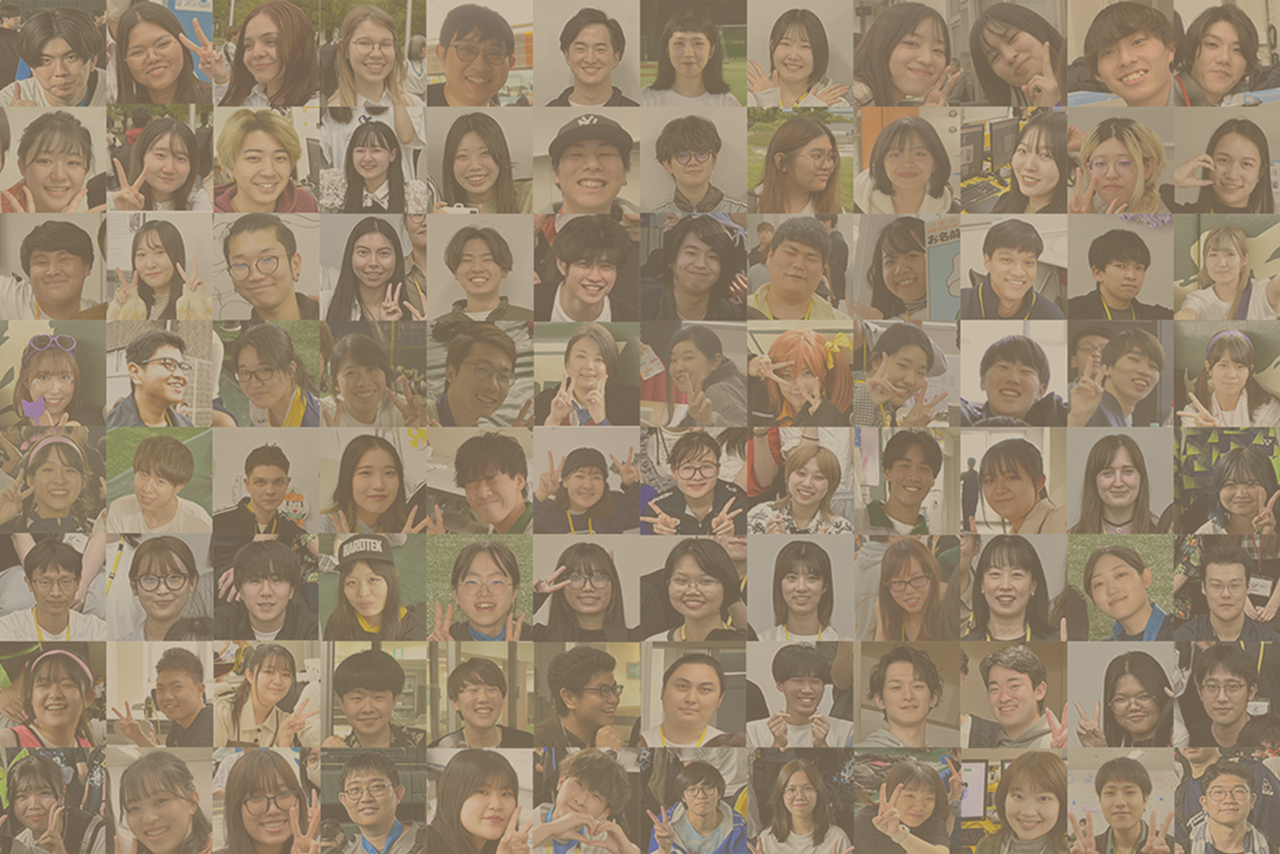
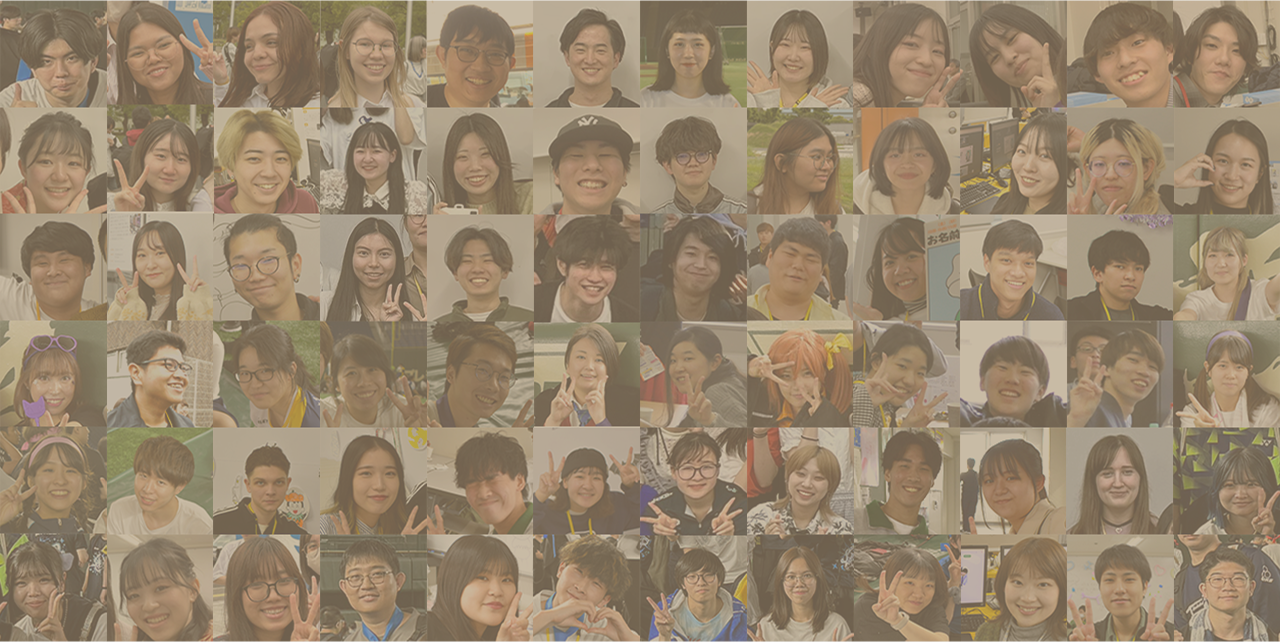
KVタイトル位置調整とSNSボタンホバーエフェクト追加

diff --git a/css/style.css b/css/style.css
@@ -142,14 +142,14 @@ header {
   background-position: center;
   background-repeat: no-repeat;
   width: 100%;
-  /* height: 119vh; */
+  height: 96vh;
   display: flex;
   align-items: center;
   justify-content: center;
   position: relative;
   min-height: 30px;
   margin-top: 72px;
-  aspect-ratio: 1280/854;
+  aspect-ratio: 1920/1080;
 }
 
 .kv-content {
@@ -163,13 +163,15 @@ header {
     "Hiragino Maru Gothic ProN", "Arial Rounded MT Bold", sans-serif;
   font-weight: 700; /* 太字指定 */
   color: #fff;
-  line-height: 1.2;
-  margin: 0;
+  line-height: 1.1;
   text-shadow: 6px 6px 15px rgba(0, 0, 0, 1);
+  position: relative;
+  /* top: -95px; */
+  transform: translateY(-15%);
 }
 
 .kv-title-number {
-  font-size: 96px;
+  font-size: 82px;
   display: block;
 
   font-weight: 400;
@@ -179,14 +181,14 @@ header {
 }
 
 .kv-title-main {
-  font-size: 250px;
+  font-size: 212px;
   display: block;
 
   font-weight: 400;
 }
 
 .kv-title-sub {
-  font-size: 64px;
+  font-size: 52px;
   display: block;
 
   font-weight: 400;
@@ -535,11 +537,12 @@ strong {
   max-width: 1250px;
   margin: 0 auto;
   padding: 50px 100px;
-  margin-top: 50px;
+  margin-top: 100px;
 }
 .recomend_text {
   color: #b15237;
   text-align: center;
+  font-size: 20px;
 }
 .button_container_diagnosis {
   display: flex;
@@ -928,6 +931,27 @@ strong {
   border-radius: 35px;
   border: 3px solid #b15237;
   background: #fff;
+  transition: all 0.3s ease;
+  text-decoration: none;
+}
+
+.button_container_SNS:hover {
+  border-radius: 50px;
+
+  background: linear-gradient(
+    270deg,
+    rgba(211, 0, 197, 0.8) -8.86%,
+    rgba(255, 0, 105, 0.8) 49.08%,
+    rgba(255, 122, 0, 0.8) 107.03%
+  );
+}
+
+.button_container_SNS:hover .button_SNS {
+  color: #fff;
+}
+
+.button_container_SNS:hover img {
+  filter: brightness(0) invert(1);
 }
 
 .button_SNS {
@@ -1309,7 +1333,7 @@ strong {
 }
 
 .rules-section:last-child li::before {
-  content: "•";
+
   position: absolute;
   left: 50%;
   transform: translateX(-50%);
@@ -1681,7 +1705,7 @@ br.break {
   flex-direction: column;
   align-items: anchor-center;
   gap: 30px;
-  margin-bottom: 30%;
+  margin-bottom: 40%;
 }
 
 .chart-container {
@@ -2245,7 +2269,6 @@ br.break {
     .recomend_content_box {
       width: 54%;
     }
-  
 
     a {
       font-size: 16px;
@@ -2335,8 +2358,8 @@ br.break {
       gap: 6px;
     }
 
-     /* おすすめ展示紹介 */
-     .recomend_content_box {
+    /* おすすめ展示紹介 */
+    .recomend_content_box {
       width: 47%;
     }
     /* 開催にあたって */
@@ -2365,10 +2388,10 @@ br.break {
       height: 28px;
       font-size: 1.2rem;
     }
-   /* おすすめ展示紹介 */
-   .recomend_content_box {
-    width: 47%;
-  }
+    /* おすすめ展示紹介 */
+    .recomend_content_box {
+      width: 47%;
+    }
     /* 展示・出店 */
     .section_ExhibitionsandStores {
       width: 54%;
@@ -2859,9 +2882,9 @@ br.break {
     color: #fff;
     margin-top: 200px;
   }
-  
+
   /* おすすめ展示紹介 */
-  .recomend_section_area{
+  .recomend_section_area {
     width: 100%;
     padding: 0;
     margin: 0;
@@ -2871,11 +2894,10 @@ br.break {
     padding: 30px 20px;
     margin: 0 auto;
   }
-  .department-illustration{
+  .department-illustration {
     width: 306px;
     height: auto;
   }
-
 
   /* スマホでの日付画像調整 */
   .time-img_sp {
@@ -3166,6 +3188,8 @@ br.break {
   }
 
   /* スタンプラリー */
+
+ 
   .section_executivecommittee {
     width: 59%;
   }
@@ -3605,8 +3629,8 @@ br.break {
   .mobile-nav li {
     margin: 13px 0;
     text-align: center;
-}
-  .official-link{
+  }
+  .official-link {
     margin: 0 auto;
   }
 
@@ -4302,8 +4326,8 @@ br.break {
   .card {
     width: 62%;
   }
-    /* おすすめ展示紹介 */
-  .department-illustration{
+  /* おすすめ展示紹介 */
+  .department-illustration {
     width: 260px;
     height: auto;
   }

diff --git a/index.html b/index.html
@@ -826,7 +826,7 @@
             >
               <img src="img/Vector.png" alt="Instagramアイコン" />
               <span class="button_SNS">Instagram</span>
-              <img class="icon" src="img/hand.png" alt="手のアイコン" />
+              <!-- <img class="icon" src="img/hand.png" alt="手のアイコン" /> -->
             </a>
             <img src="img/masukot.png" alt="日本電子専門学校マスコット" />
             <div class="masukotto">
